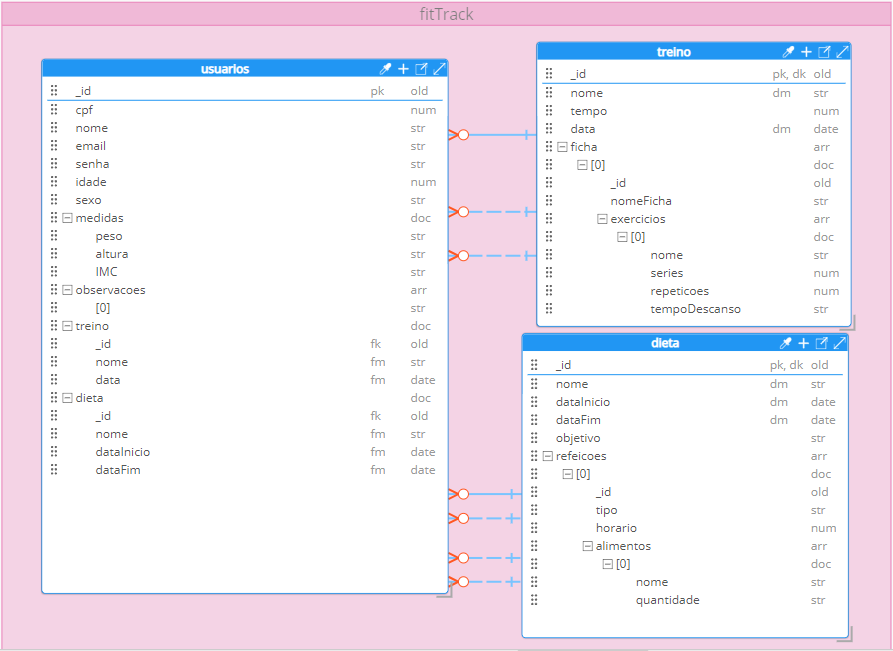
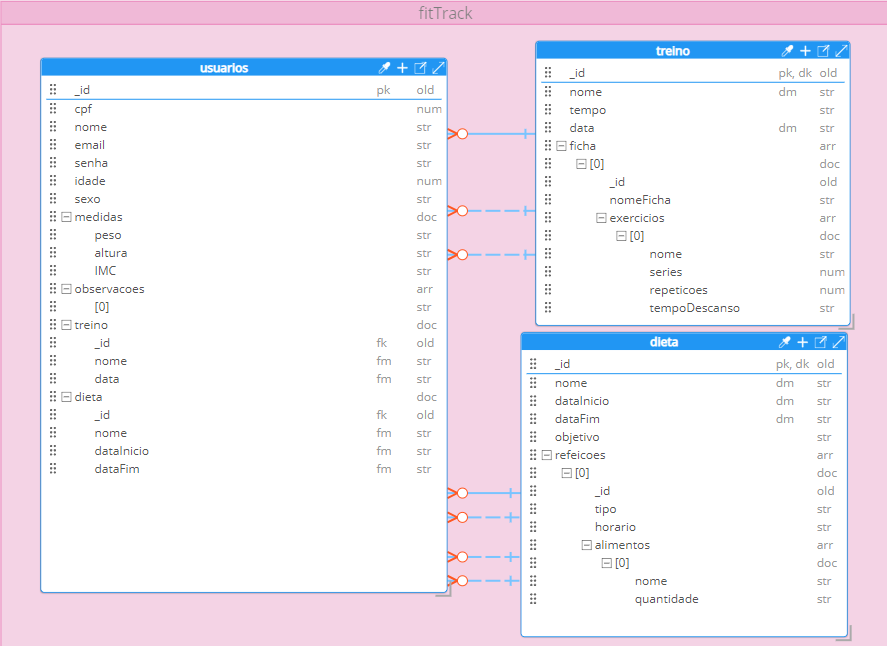
docs: atualização da documentação v5

Changed region(s): [[0.0, 0.0619, 1.0, 1.0], [0.0, 0.0, 1.0, 0.0619], [0.2131, 0.0929, 0.3044, 0.1238]]

diff --git a/backend/controllers/userController.js b/backend/controllers/userController.js
@@ -34,13 +34,12 @@ exports.createUser = async (req, res) => {
     //Calcula IMC e verifica peso e altura
     const peso = newUser.medidas?.peso;
     const altura = newUser.medidas?.altura;
-
     if (!peso || !altura) {
       return res.status(400).json({
         message: "Peso e altura são obrigatórios para calcular o IMC.",
       });
     }
-
+   
     const imcCalculado = peso / altura ** 2;
 
     // Cria newUserData com os dados do req.body, atualiza medidas com IMC calculado

diff --git a/backend/models/dieta.js b/backend/models/dieta.js
@@ -10,14 +10,14 @@ const AlimentoSchema = new Schema({
 // Subschema de refeições COM _id
 const RefeicaoSchema = new Schema({
   tipo: String,
-  horario: Number,
+  horario: String,
   alimentos: [AlimentoSchema]
 });
 
 const DietaSchema = new Schema({
   nome: String,
-  dataInicio: Date,
-  dataFim: Date,
+  dataInicio: String,
+  dataFim: String,
   objetivo: String,
   refeicoes: [RefeicaoSchema]
 });

diff --git a/backend/models/treino.js b/backend/models/treino.js
@@ -15,8 +15,8 @@ const FichaSchema = new Schema({
 
 const TreinoSchema = new Schema({
   nome: String,
-  tempo: Number,
-  data: Date,
+  tempo: String,
+  data: String,
   fichas: [FichaSchema]
 });
 

diff --git a/README.md b/README.md
@@ -271,22 +271,24 @@ http://localhost:5000/treino
   "fichas": [
     {
       "nomeFicha": "A - Peito e Tríceps",
-      "exercicios":
-      {
-        "nome": "Supino reto",
-        "series": 4,
-        "repeticoes": 12,
-        "tempoDescanso": "1min30s"
-      },
-      {
-        "nome": "Crucifixo",
-        "series": 3,
-        "repeticoes": 10,
-        "tempoDescanso": "1min20s"
-      }
+      "exercicios": [
+        {
+          "nome": "Supino reto",
+          "series": 4,
+          "repeticoes": 12,
+          "tempoDescanso": "1min30s"
+        },
+        {
+          "nome": "Crucifixo",
+          "series": 3,
+          "repeticoes": 10,
+          "tempoDescanso": "1min20s"
+        }
+      ]
     }
   ]
 }
+
 
 ```
 
@@ -315,6 +317,9 @@ Apenas altere método `POST` para `GET`
   `http://localhost:5000/treino`
 
 - ✅ Retorna todos os treinos cadastrados.
+
+ #### ⚠ Campo __v
+#### O campo __v é um campo interno do Mongoose usado para controlar a versão do documento no MongoDB. Ele ajuda a gerenciar concorrência e evitar conflitos durante atualizações simultâneas.
 
 ---
 
@@ -452,6 +457,7 @@ http://localhost:5000/dieta
 
 ✅ Retorna todas as dietas cadastradas.
 
+
 ---
 
 ### ✏ PUT /dieta/:id
@@ -537,8 +543,8 @@ http://localhost:5000/user
     "altura": 1.68
   },
   "observacoes": ["sem restrições"],
-  "treino_id": "",
-  "dieta_id": ""
+  "treino_id":"",
+  "dieta_id":"" 
 }
 ```
 
